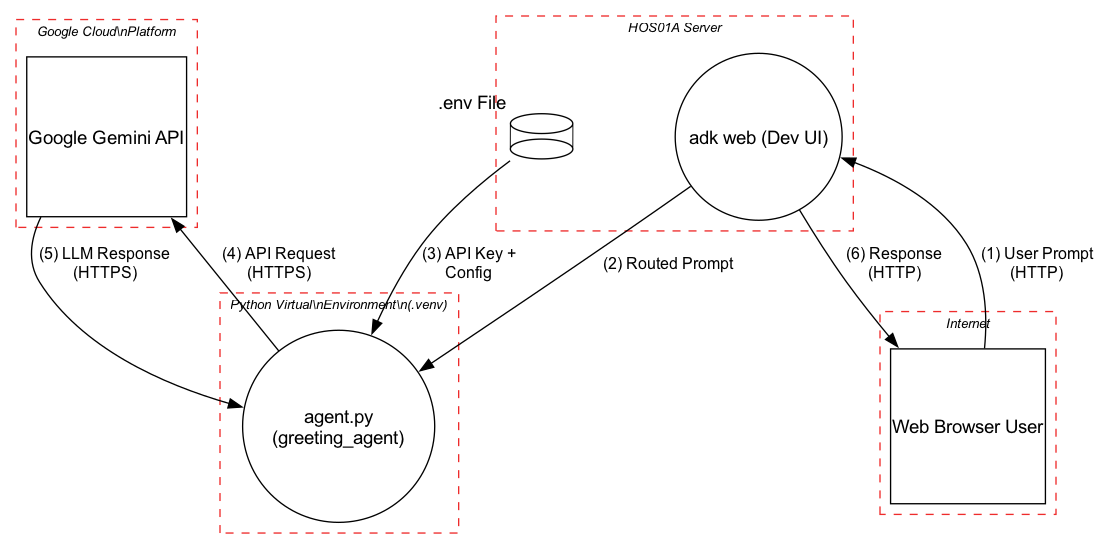
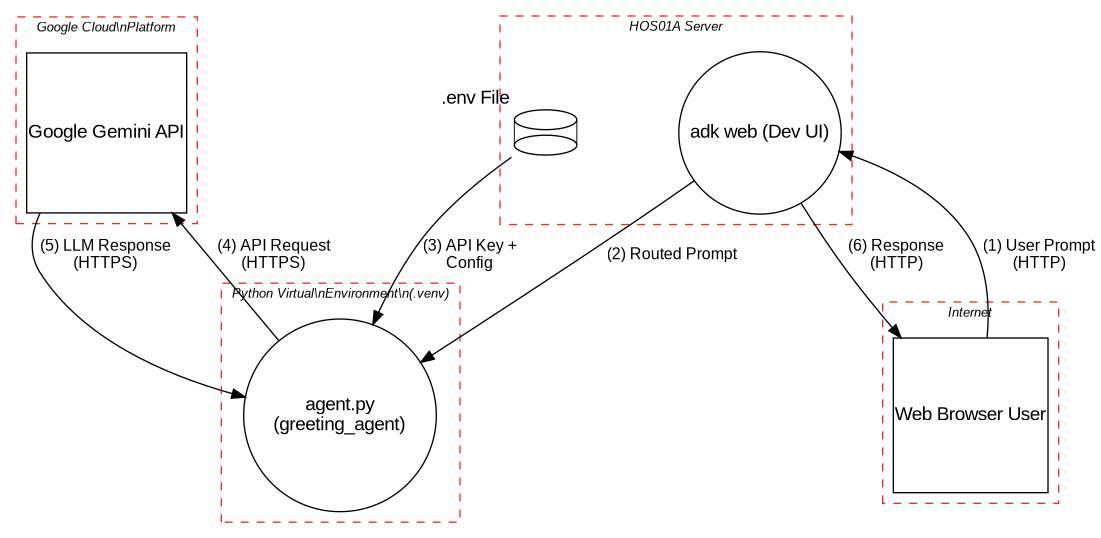
reduce code

diff --git a/01-greeting-agent/greeting_agent/agent.py b/01-greeting-agent/greeting_agent/agent.py
@@ -10,28 +10,3 @@ root_agent = Agent(
     Ask for the user's name and greet them by name.
     """,
 )
-
-
-import json 
-
-def lambda_handler(event, context): 
-
-    query_params = event['queryStringParameters'] 
-    query_params = int(query_params['year']) 
-    result = str(query_params) + (' is a leap year' if is_leap_year(int(query_params)) else ' is not a leap year') 
-    return { 
-        'statusCode': 200, 
-        'body': json.dumps(result) 
-    } 
-
-def is_leap_year(year): 
-    if year % 4 == 0: 
-        if year % 100 == 0: 
-            if year % 400 == 0: 
-                return True 
-            else: 
-                return False 
-        else: 
-            return True 
-    else: 
-        return False 
